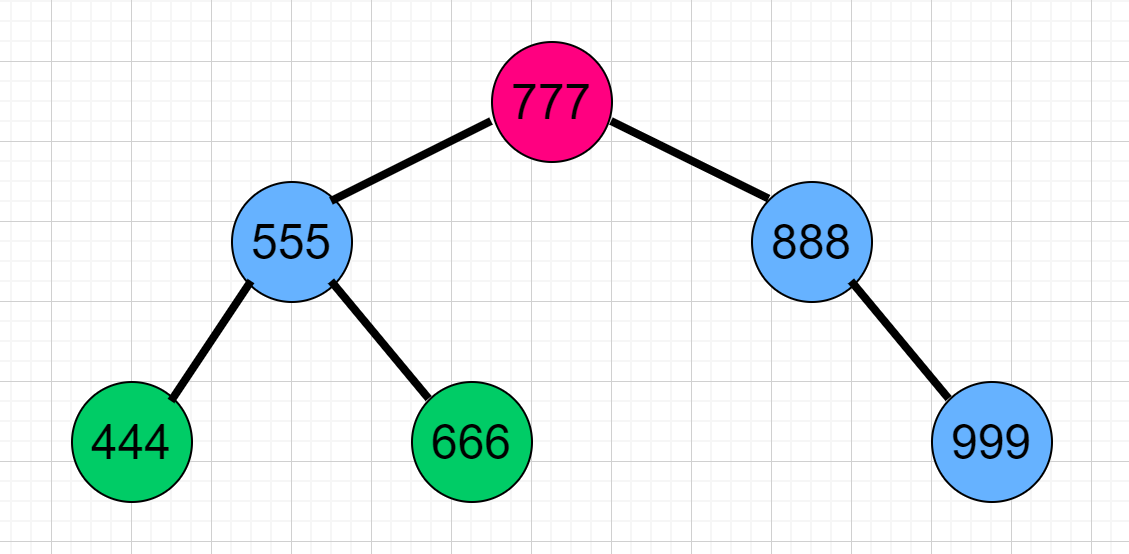
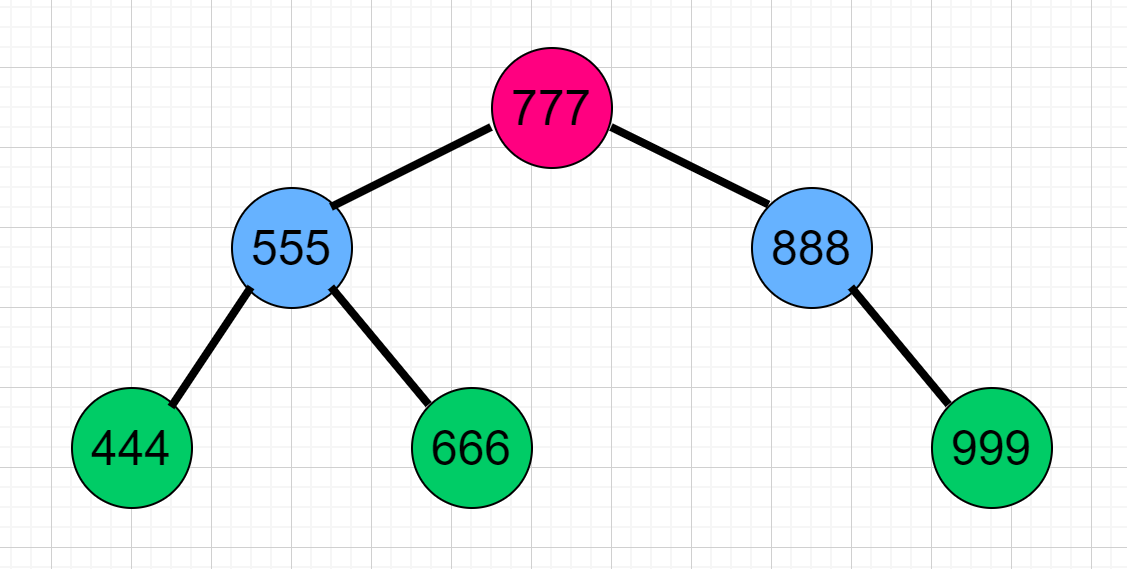
replaced BST 12th image

diff --git a/BinarySearchTree/Problems/GrabAllLeaves/problem.js b/BinarySearchTree/Problems/GrabAllLeaves/problem.js
@@ -27,11 +27,6 @@ module.exports = grabAllLeaves;
 
 /*
 ! Test Case:
-* Sample Input:
-	    25                   
-	   /  \             	   
-     16    26      
-    /  \     \           
-   5   21     35         
-* Sample Output: [5, 21, 35]
+* Sample Input: refer to Images -> BST-structure-7.png
+* Sample Output: [444, 666, 999]
 */
